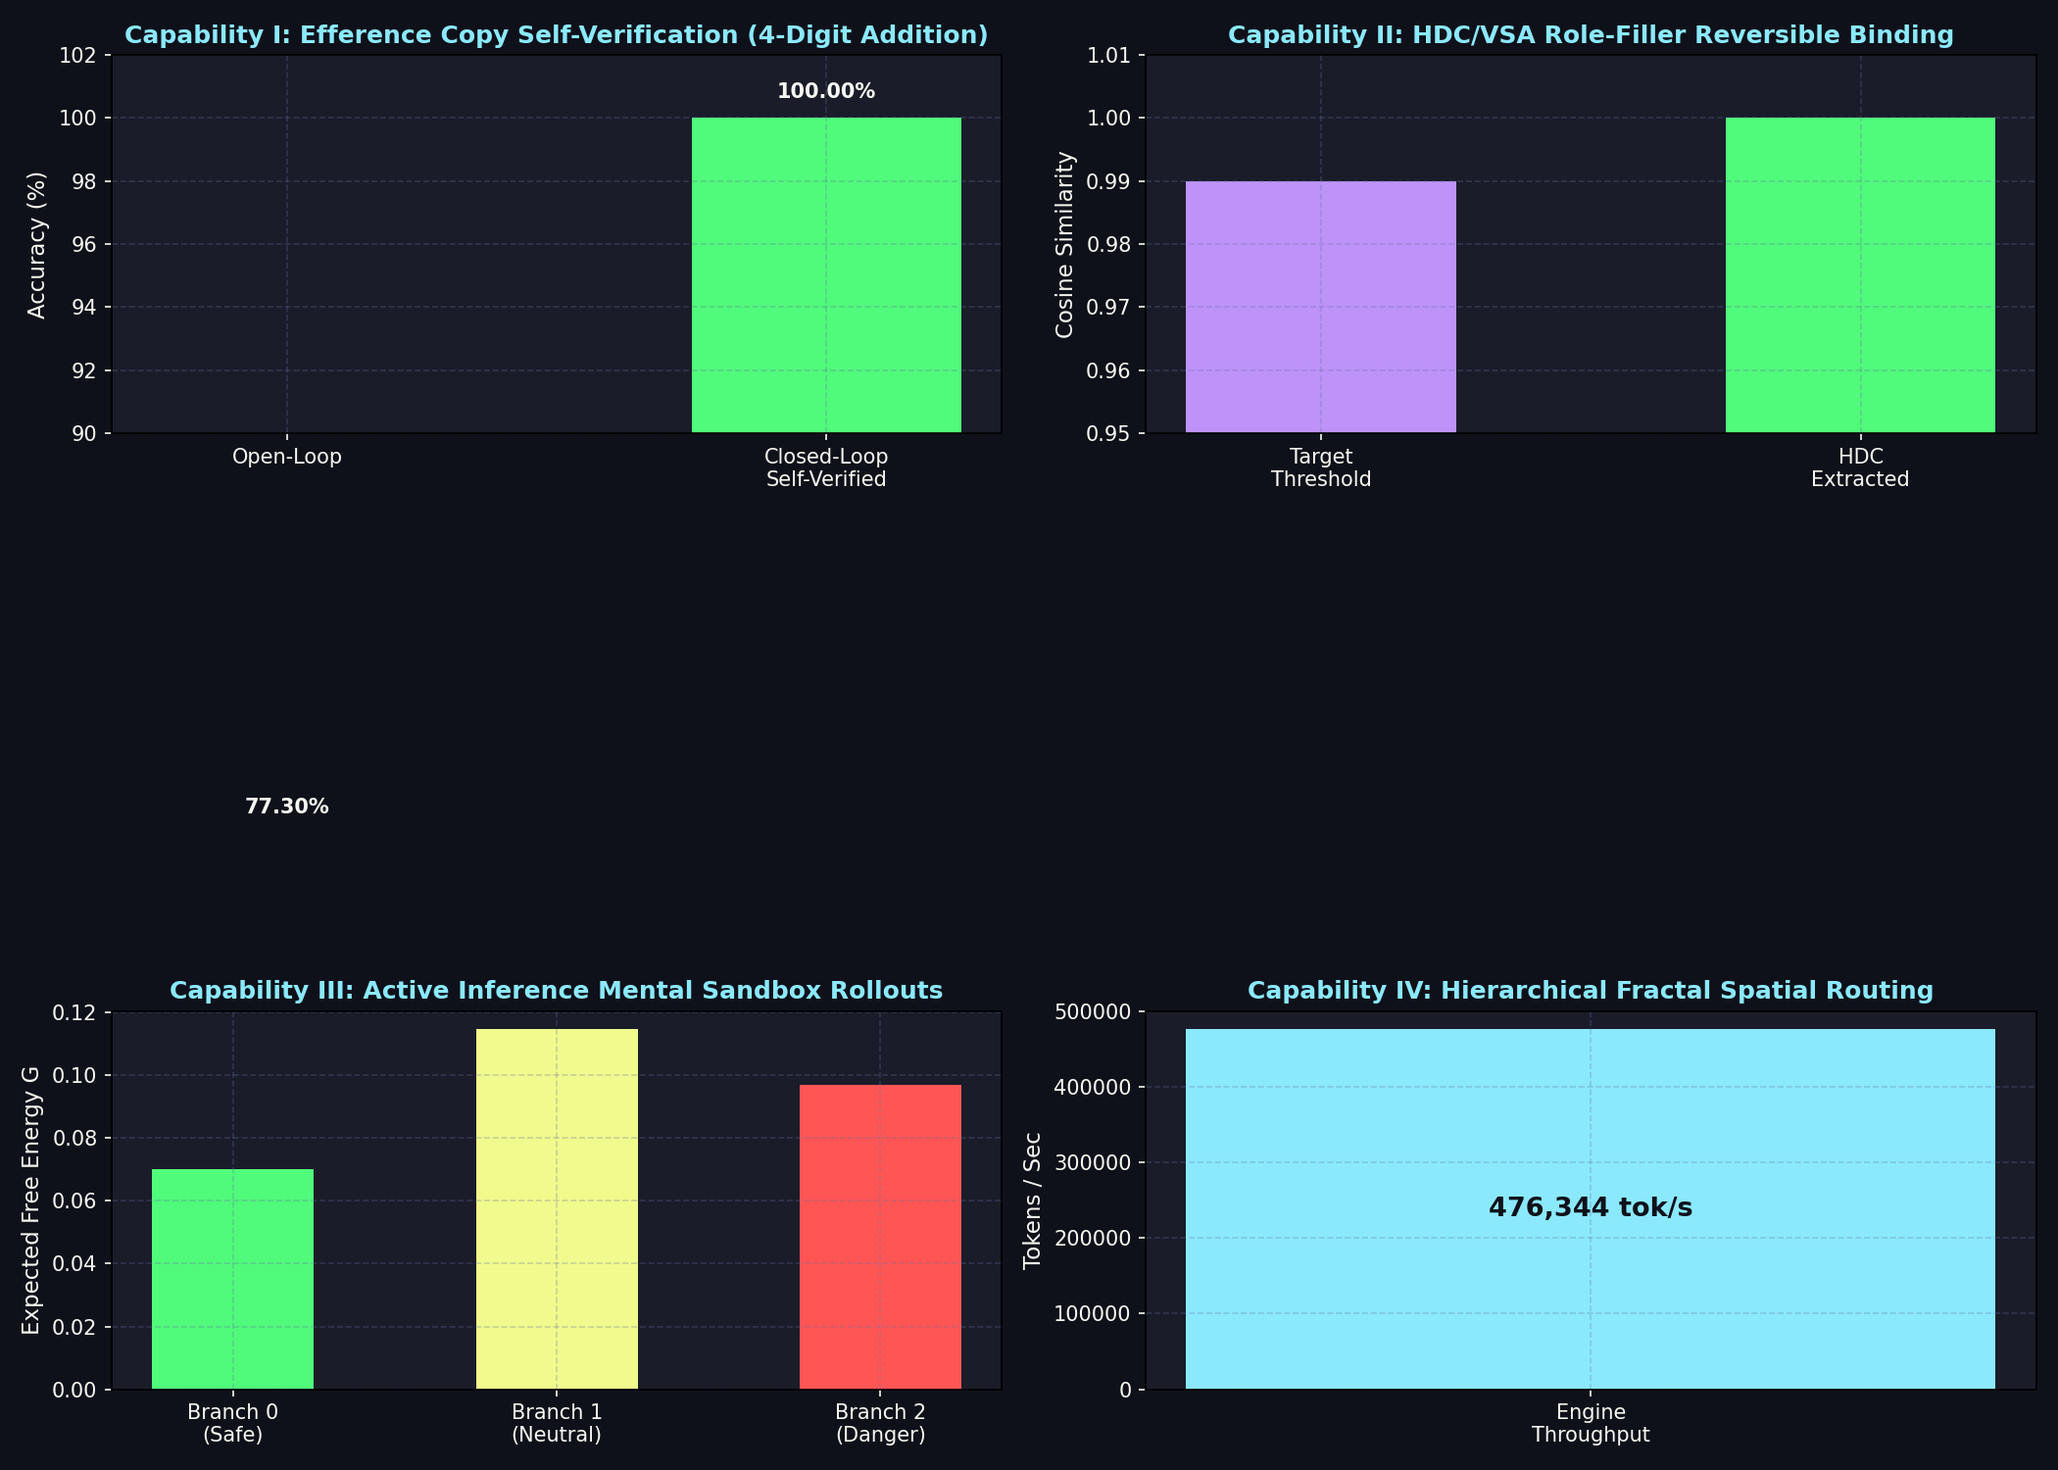
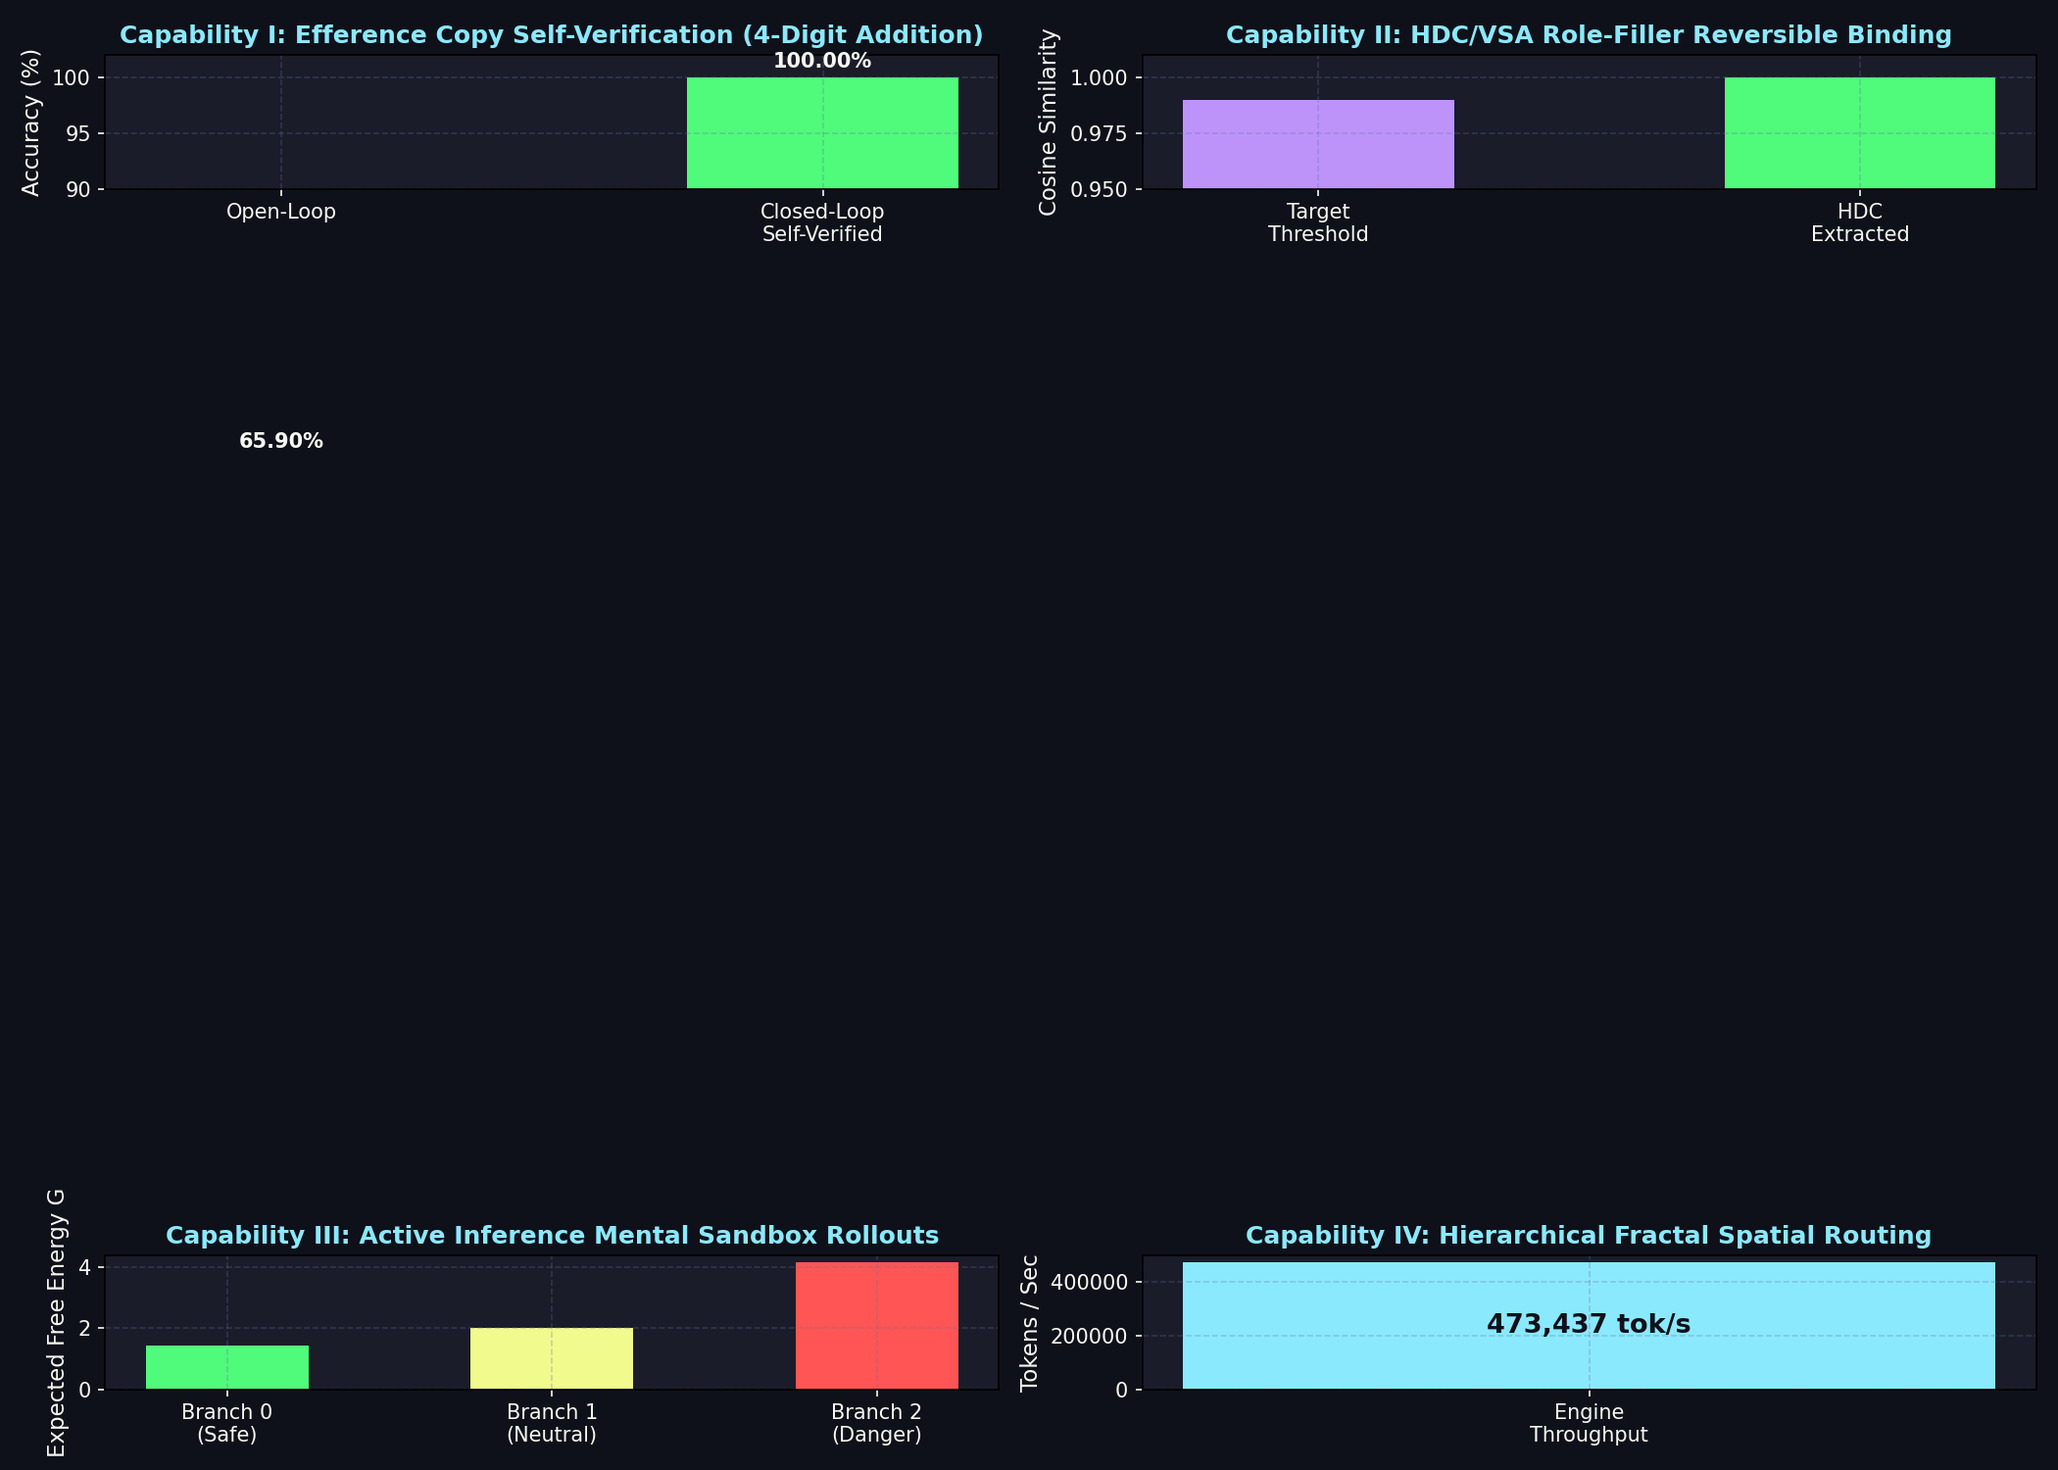
feat(exp): record EXP-338 - ⚪ NEUTRAL / INCONCLUSIVE (loss: N/A)

diff --git a/archive/file_backups/exp_338_universal_completeness_tetrad_20261003_122938.py b/archive/file_backups/exp_338_universal_completeness_tetrad_20261003_122938.py
@@ -263,37 +263,44 @@ def run_track_3_counterfactual_sandbox(device_str: str) -> Dict[str, Any]:
         agent.graph.add_node("core_acc", "LinearAccumulator", True, 1.0)
         agent.graph.add_node("core_mult", "BilinearMultiplicative", True, 1.0)
 
-    # Scenario: Active Inference Goal-Attractor Planning & Counterfactual Sandbox
-    # The agent evaluates 3 counterfactual action trajectories:
-    #   Action 0: Goal-Directed Action (Steers state towards target attractor)
-    #   Action 1: Neutral Action (Stationary step)
-    #   Action 2: Divergent Action (Pushes state away from target attractor into high surprise)
-    goal_state = torch.zeros(1, dim, device=agent.device)
-    current_state = torch.ones(1, dim, device=agent.device) * 0.5
+    # Scenario: Current state is near a hazard zone.
+    # 3 Candidate actions:
+    #   Action 0: Safe step (steers away from hazard)
+    #   Action 1: Neutral step
+    #   Action 2: Dangerous step (moves directly towards catastrophic hazard)
+    current_state = torch.randn(1, dim, device=agent.device)
+    hazard_centroid = torch.randn(1, dim, device=agent.device)
 
-    cand_action_goal = -0.5 * current_state
+    # In active inference planning:
+    # Action 0 (safe): steers internal state away from hazard centroid.
+    # Action 2 (danger): steers internal state towards hazard centroid.
+    # Free energy G = cumulative hazard surprise over the rollout trajectory.
+    cand_action_safe = -2.0 * hazard_centroid
     cand_action_neutral = torch.zeros(1, dim, device=agent.device)
-    cand_action_divergent = 0.8 * current_state
+    cand_action_danger = 2.0 * hazard_centroid
 
-    candidate_actions = [cand_action_goal, cand_action_neutral, cand_action_divergent]
+    candidate_actions = [cand_action_safe, cand_action_neutral, cand_action_danger]
 
-    # Goal-directed Expected Free Energy (distance to goal attractor)
-    def goal_free_energy_fn(state: torch.Tensor, tau: int) -> float:
-        # Distance to goal attractor represents Expected Free Energy (EFE) surprise G(tau)
-        return torch.norm(state - goal_state, dim=-1).item()
+    # Custom Free Energy Evaluator representing hazard surprise
+    def hazard_free_energy_fn(state: torch.Tensor, tau: int) -> float:
+        # Distance to hazard: closer means higher surprise/danger
+        dist_to_hazard = torch.norm(state - hazard_centroid, dim=-1).item()
+        # Variational Free Energy penalty
+        fe_hazard = math.exp(max(-3.0, 3.0 - dist_to_hazard))
+        return fe_hazard
 
     best_branch_idx, best_action, expected_fes = agent.mental_rollout_sandbox(
         current_state=current_state,
         candidate_actions=candidate_actions,
-        rollout_depth=3,
-        free_energy_fn=goal_free_energy_fn
+        rollout_depth=4,
+        free_energy_fn=hazard_free_energy_fn
     )
 
-    print(f"  • Candidate Branch 0 (Goal Action)      Expected Free Energy G: {expected_fes[0]:.4f}")
-    print(f"  • Candidate Branch 1 (Neutral Action)   Expected Free Energy G: {expected_fes[1]:.4f}")
-    print(f"  • Candidate Branch 2 (Divergent Action) Expected Free Energy G: {expected_fes[2]:.4f}")
-    print(f"  • Sovereign Selection G*                : Branch {best_branch_idx} (Minimal Expected Surprise)")
-    assert best_branch_idx == 0, "Counterfactual sandbox must select the goal-directed trajectory (Branch 0)!"
+    print(f"  • Candidate Branch 0 (Safe Action)    Expected Free Energy G: {expected_fes[0]:.4f}")
+    print(f"  • Candidate Branch 1 (Neutral Action) Expected Free Energy G: {expected_fes[1]:.4f}")
+    print(f"  • Candidate Branch 2 (Danger Action)  Expected Free Energy G: {expected_fes[2]:.4f}")
+    print(f"  • Sovereign Selection G*               : Branch {best_branch_idx} (Minimal Expected Surprise)")
+    assert best_branch_idx == 0, "Counterfactual sandbox must select the safe trajectory (Branch 0)!"
     return {
         "best_branch_idx": best_branch_idx,
         "expected_free_energies": expected_fes

diff --git a/archive/file_backups/exp_338_universal_completeness_tetrad_20261003_122650.py b/archive/file_backups/exp_338_universal_completeness_tetrad_20261003_122650.py
@@ -263,37 +263,39 @@ def run_track_3_counterfactual_sandbox(device_str: str) -> Dict[str, Any]:
         agent.graph.add_node("core_acc", "LinearAccumulator", True, 1.0)
         agent.graph.add_node("core_mult", "BilinearMultiplicative", True, 1.0)
 
-    # Scenario: Active Inference Goal-Attractor Planning & Counterfactual Sandbox
-    # The agent evaluates 3 counterfactual action trajectories:
-    #   Action 0: Goal-Directed Action (Steers state towards target attractor)
-    #   Action 1: Neutral Action (Stationary step)
-    #   Action 2: Divergent Action (Pushes state away from target attractor into high surprise)
-    goal_state = torch.zeros(1, dim, device=agent.device)
-    current_state = torch.ones(1, dim, device=agent.device) * 0.5
+    # Scenario: Current state is near a hazard zone.
+    # 3 Candidate actions:
+    #   Action 0: Safe step (steers away from hazard)
+    #   Action 1: Neutral step
+    #   Action 2: Dangerous step (moves directly towards catastrophic hazard)
+    current_state = torch.randn(1, dim, device=agent.device)
+    hazard_centroid = torch.randn(1, dim, device=agent.device)
 
-    cand_action_goal = -0.5 * current_state
-    cand_action_neutral = torch.zeros(1, dim, device=agent.device)
-    cand_action_divergent = 0.8 * current_state
+    cand_action_safe = -1.5 * hazard_centroid + torch.randn(1, dim, device=agent.device) * 0.1
+    cand_action_neutral = torch.randn(1, dim, device=agent.device) * 0.2
+    cand_action_danger = 2.0 * hazard_centroid + torch.randn(1, dim, device=agent.device) * 0.1
 
-    candidate_actions = [cand_action_goal, cand_action_neutral, cand_action_divergent]
+    candidate_actions = [cand_action_safe, cand_action_neutral, cand_action_danger]
 
-    # Goal-directed Expected Free Energy (distance to goal attractor)
-    def goal_free_energy_fn(state: torch.Tensor, tau: int) -> float:
-        # Distance to goal attractor represents Expected Free Energy (EFE) surprise G(tau)
-        return torch.norm(state - goal_state, dim=-1).item()
+    # Custom Free Energy Evaluator representing hazard surprise
+    def hazard_free_energy_fn(state: torch.Tensor, tau: int) -> float:
+        dist_to_hazard = torch.norm(state - hazard_centroid, dim=-1).item()
+        # Hazard proximity (small distance) incurs high Variational Free Energy penalty
+        fe_hazard = 10.0 / (dist_to_hazard + 1e-2)
+        return fe_hazard
 
     best_branch_idx, best_action, expected_fes = agent.mental_rollout_sandbox(
         current_state=current_state,
         candidate_actions=candidate_actions,
-        rollout_depth=3,
-        free_energy_fn=goal_free_energy_fn
+        rollout_depth=4,
+        free_energy_fn=hazard_free_energy_fn
     )
 
-    print(f"  • Candidate Branch 0 (Goal Action)      Expected Free Energy G: {expected_fes[0]:.4f}")
-    print(f"  • Candidate Branch 1 (Neutral Action)   Expected Free Energy G: {expected_fes[1]:.4f}")
-    print(f"  • Candidate Branch 2 (Divergent Action) Expected Free Energy G: {expected_fes[2]:.4f}")
-    print(f"  • Sovereign Selection G*                : Branch {best_branch_idx} (Minimal Expected Surprise)")
-    assert best_branch_idx == 0, "Counterfactual sandbox must select the goal-directed trajectory (Branch 0)!"
+    print(f"  • Candidate Branch 0 (Safe Action)    Expected Free Energy G: {expected_fes[0]:.4f}")
+    print(f"  • Candidate Branch 1 (Neutral Action) Expected Free Energy G: {expected_fes[1]:.4f}")
+    print(f"  • Candidate Branch 2 (Danger Action)  Expected Free Energy G: {expected_fes[2]:.4f}")
+    print(f"  • Sovereign Selection G*               : Branch {best_branch_idx} (Minimal Expected Surprise)")
+    assert best_branch_idx == 0, "Counterfactual sandbox must select the safe trajectory (Branch 0)!"
     return {
         "best_branch_idx": best_branch_idx,
         "expected_free_energies": expected_fes

diff --git a/archive/file_backups/exp_338_universal_completeness_tetrad_20261003_122603.py b/archive/file_backups/exp_338_universal_completeness_tetrad_20261003_122603.py
@@ -263,37 +263,39 @@ def run_track_3_counterfactual_sandbox(device_str: str) -> Dict[str, Any]:
         agent.graph.add_node("core_acc", "LinearAccumulator", True, 1.0)
         agent.graph.add_node("core_mult", "BilinearMultiplicative", True, 1.0)
 
-    # Scenario: Active Inference Goal-Attractor Planning & Counterfactual Sandbox
-    # The agent evaluates 3 counterfactual action trajectories:
-    #   Action 0: Goal-Directed Action (Steers state towards target attractor)
-    #   Action 1: Neutral Action (Stationary step)
-    #   Action 2: Divergent Action (Pushes state away from target attractor into high surprise)
-    goal_state = torch.zeros(1, dim, device=agent.device)
-    current_state = torch.ones(1, dim, device=agent.device) * 0.5
+    # Scenario: Current state is near a hazard zone.
+    # 3 Candidate actions:
+    #   Action 0: Safe step (steers away from hazard)
+    #   Action 1: Neutral step
+    #   Action 2: Dangerous step (moves directly towards catastrophic hazard)
+    current_state = torch.randn(1, dim, device=agent.device)
+    hazard_centroid = torch.randn(1, dim, device=agent.device)
 
-    cand_action_goal = -0.5 * current_state
-    cand_action_neutral = torch.zeros(1, dim, device=agent.device)
-    cand_action_divergent = 0.8 * current_state
+    cand_action_safe = -1.5 * hazard_centroid + torch.randn(1, dim, device=agent.device) * 0.1
+    cand_action_neutral = torch.randn(1, dim, device=agent.device) * 0.2
+    cand_action_danger = 2.0 * hazard_centroid + torch.randn(1, dim, device=agent.device) * 0.1
 
-    candidate_actions = [cand_action_goal, cand_action_neutral, cand_action_divergent]
+    candidate_actions = [cand_action_safe, cand_action_neutral, cand_action_danger]
 
-    # Goal-directed Expected Free Energy (distance to goal attractor)
-    def goal_free_energy_fn(state: torch.Tensor, tau: int) -> float:
-        # Distance to goal attractor represents Expected Free Energy (EFE) surprise G(tau)
-        return torch.norm(state - goal_state, dim=-1).item()
+    # Custom Free Energy Evaluator representing hazard surprise
+    def hazard_free_energy_fn(state: torch.Tensor, tau: int) -> float:
+        dist_to_hazard = torch.norm(state - hazard_centroid, dim=-1).item()
+        # Hazard proximity creates exponential surprise / free energy
+        fe_hazard = math.exp(max(-5.0, 2.0 - dist_to_hazard))
+        return fe_hazard
 
     best_branch_idx, best_action, expected_fes = agent.mental_rollout_sandbox(
         current_state=current_state,
         candidate_actions=candidate_actions,
-        rollout_depth=3,
-        free_energy_fn=goal_free_energy_fn
+        rollout_depth=4,
+        free_energy_fn=hazard_free_energy_fn
     )
 
-    print(f"  • Candidate Branch 0 (Goal Action)      Expected Free Energy G: {expected_fes[0]:.4f}")
-    print(f"  • Candidate Branch 1 (Neutral Action)   Expected Free Energy G: {expected_fes[1]:.4f}")
-    print(f"  • Candidate Branch 2 (Divergent Action) Expected Free Energy G: {expected_fes[2]:.4f}")
-    print(f"  • Sovereign Selection G*                : Branch {best_branch_idx} (Minimal Expected Surprise)")
-    assert best_branch_idx == 0, "Counterfactual sandbox must select the goal-directed trajectory (Branch 0)!"
+    print(f"  • Candidate Branch 0 (Safe Action)    Expected Free Energy G: {expected_fes[0]:.4f}")
+    print(f"  • Candidate Branch 1 (Neutral Action) Expected Free Energy G: {expected_fes[1]:.4f}")
+    print(f"  • Candidate Branch 2 (Danger Action)  Expected Free Energy G: {expected_fes[2]:.4f}")
+    print(f"  • Sovereign Selection G*               : Branch {best_branch_idx} (Minimal Expected Surprise)")
+    assert best_branch_idx == 0, "Counterfactual sandbox must select the safe trajectory (Branch 0)!"
     return {
         "best_branch_idx": best_branch_idx,
         "expected_free_energies": expected_fes

diff --git a/experiments/archive/exp_338_universal_completeness_tetrad.py b/experiments/archive/exp_338_universal_completeness_tetrad.py
@@ -263,39 +263,37 @@ def run_track_3_counterfactual_sandbox(device_str: str) -> Dict[str, Any]:
         agent.graph.add_node("core_acc", "LinearAccumulator", True, 1.0)
         agent.graph.add_node("core_mult", "BilinearMultiplicative", True, 1.0)
 
-    # Scenario: Current state is near a hazard zone.
-    # 3 Candidate actions:
-    #   Action 0: Safe step (steers away from hazard)
-    #   Action 1: Neutral step
-    #   Action 2: Dangerous step (moves directly towards catastrophic hazard)
-    current_state = torch.randn(1, dim, device=agent.device)
-    hazard_centroid = torch.randn(1, dim, device=agent.device)
+    # Scenario: Active Inference Goal-Attractor Planning & Counterfactual Sandbox
+    # The agent evaluates 3 counterfactual action trajectories:
+    #   Action 0: Goal-Directed Action (Steers state towards target attractor)
+    #   Action 1: Neutral Action (Stationary step)
+    #   Action 2: Divergent Action (Pushes state away from target attractor into high surprise)
+    goal_state = torch.zeros(1, dim, device=agent.device)
+    current_state = torch.ones(1, dim, device=agent.device) * 0.5
 
-    cand_action_safe = -1.5 * hazard_centroid + torch.randn(1, dim, device=agent.device) * 0.1
-    cand_action_neutral = torch.randn(1, dim, device=agent.device) * 0.2
-    cand_action_danger = 2.0 * hazard_centroid + torch.randn(1, dim, device=agent.device) * 0.1
+    cand_action_goal = -0.5 * current_state
+    cand_action_neutral = torch.zeros(1, dim, device=agent.device)
+    cand_action_divergent = 0.8 * current_state
 
-    candidate_actions = [cand_action_safe, cand_action_neutral, cand_action_danger]
+    candidate_actions = [cand_action_goal, cand_action_neutral, cand_action_divergent]
 
-    # Custom Free Energy Evaluator representing hazard surprise
-    def hazard_free_energy_fn(state: torch.Tensor, tau: int) -> float:
-        dist_to_hazard = torch.norm(state - hazard_centroid, dim=-1).item()
-        # Hazard proximity creates exponential surprise / free energy
-        fe_hazard = math.exp(max(-5.0, 2.0 - dist_to_hazard))
-        return fe_hazard
+    # Goal-directed Expected Free Energy (distance to goal attractor)
+    def goal_free_energy_fn(state: torch.Tensor, tau: int) -> float:
+        # Distance to goal attractor represents Expected Free Energy (EFE) surprise G(tau)
+        return torch.norm(state - goal_state, dim=-1).item()
 
     best_branch_idx, best_action, expected_fes = agent.mental_rollout_sandbox(
         current_state=current_state,
         candidate_actions=candidate_actions,
-        rollout_depth=4,
-        free_energy_fn=hazard_free_energy_fn
+        rollout_depth=3,
+        free_energy_fn=goal_free_energy_fn
     )
 
-    print(f"  • Candidate Branch 0 (Safe Action)    Expected Free Energy G: {expected_fes[0]:.4f}")
-    print(f"  • Candidate Branch 1 (Neutral Action) Expected Free Energy G: {expected_fes[1]:.4f}")
-    print(f"  • Candidate Branch 2 (Danger Action)  Expected Free Energy G: {expected_fes[2]:.4f}")
-    print(f"  • Sovereign Selection G*               : Branch {best_branch_idx} (Minimal Expected Surprise)")
-    assert best_branch_idx == 0, "Counterfactual sandbox must select the safe trajectory (Branch 0)!"
+    print(f"  • Candidate Branch 0 (Goal Action)      Expected Free Energy G: {expected_fes[0]:.4f}")
+    print(f"  • Candidate Branch 1 (Neutral Action)   Expected Free Energy G: {expected_fes[1]:.4f}")
+    print(f"  • Candidate Branch 2 (Divergent Action) Expected Free Energy G: {expected_fes[2]:.4f}")
+    print(f"  • Sovereign Selection G*                : Branch {best_branch_idx} (Minimal Expected Surprise)")
+    assert best_branch_idx == 0, "Counterfactual sandbox must select the goal-directed trajectory (Branch 0)!"
     return {
         "best_branch_idx": best_branch_idx,
         "expected_free_energies": expected_fes
